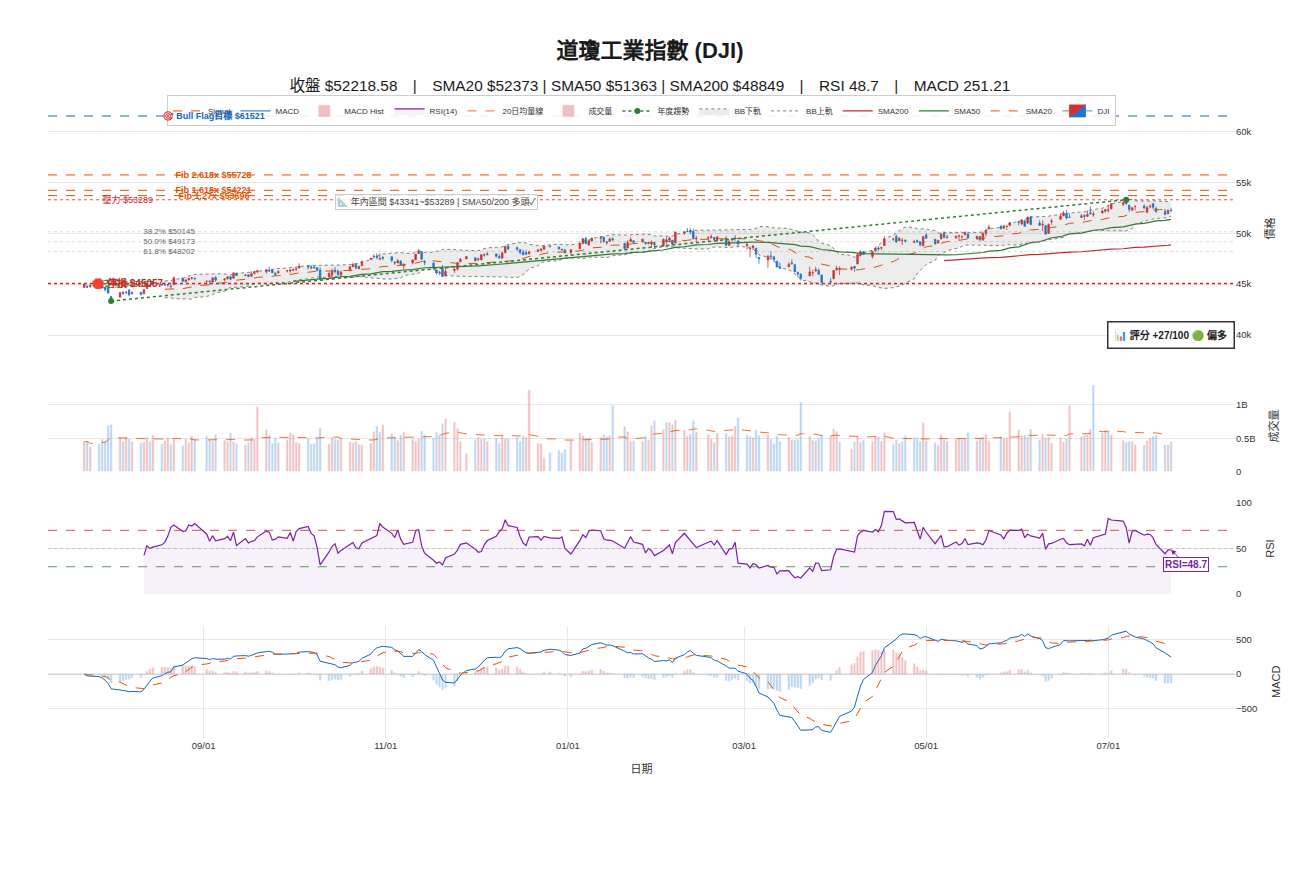
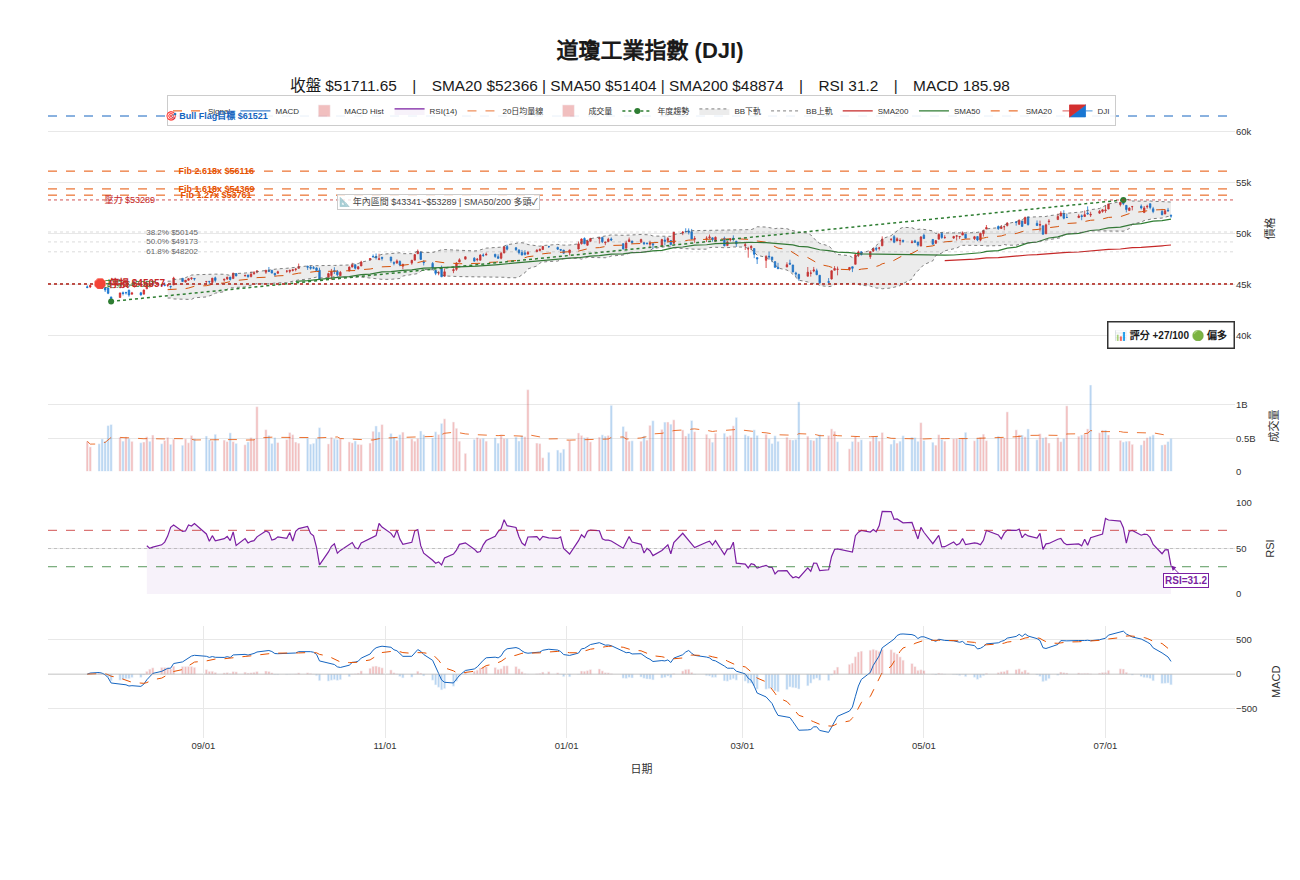
charts: 更新 2026-07-24 技術圖

diff --git a/charts/index.html b/charts/index.html
@@ -39,27 +39,27 @@ body { font-family:'Noto Sans TC',sans-serif; background:#f5f0e8; color:#1a1714;
   <a href="../">← 回首頁</a>
 </div>
 <div class="container">
-  <div class="date-badge">📅 2026/07/23 收盤 — 週四</div>
+  <div class="date-badge">📅 2026/07/24 收盤 — 週五</div>
   <div class="chart-grid">
     <div class="chart-card">
       <img src="dji.png" alt="道瓊工業指數">
-      <div class="info"><h3>道瓊工業指數 DJI</h3><p>52,218.58 (-0.01%) · RSI 48.7</p></div>
+      <div class="info"><h3>道瓊工業指數 DJI</h3><p>51,711.65 (-0.97%) · RSI 31.2</p></div>
     </div>
     <div class="chart-card">
       <img src="sox.png" alt="費城半導體指數">
-      <div class="info"><h3>費城半導體指數 SOX</h3><p>12,410.67 (+0.44%) · RSI 40.4</p></div>
+      <div class="info"><h3>費城半導體指數 SOX</h3><p>12,343.84 (-0.54%) · RSI 46.7</p></div>
     </div>
     <div class="chart-card">
       <img src="ixic.png" alt="納斯達克指數">
-      <div class="info"><h3>納斯達克指數 IXIC</h3><p>25,690.90 (-0.57%) · RSI 44.7</p></div>
+      <div class="info"><h3>納斯達克指數 IXIC</h3><p>25,137.69 (-2.15%) · RSI 40.5</p></div>
     </div>
     <div class="chart-card">
       <img src="tsm.png" alt="台積電 ADR">
-      <div class="info"><h3>台積電 ADR (TSM)</h3><p>$421.21 (-0.80%) · RSI 40.4</p></div>
+      <div class="info"><h3>台積電 ADR (TSM)</h3><p>$415.58 (-1.34%) · RSI 41.9</p></div>
     </div>
     <div class="chart-card">
       <img src="intc.png" alt="Intel">
-      <div class="info"><h3>Intel (INTC)</h3><p>$102.62 (-2.68%) · RSI 30.6</p></div>
+      <div class="info"><h3>Intel (INTC)</h3><p>$100.23 (-2.33%) · RSI 32.8</p></div>
     </div>
     <div class="chart-card" style="cursor:pointer;" onclick="location.href='taiex-technical.html'">
       <div style="height:160px;background:linear-gradient(135deg,#1a1a2e,#16213e);display:flex;align-items:center;justify-content:center;">
